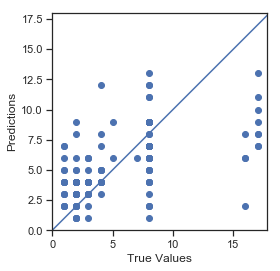
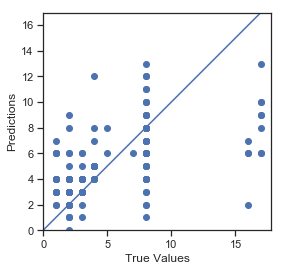
lucky

diff --git a/absenteeism/index.html b/absenteeism/index.html
@@ -36,9 +36,22 @@
           <a href="#AboutOurData" class="list-group-item list-group-item-action bg-white">About Data</a>
           <a href="profiling.html" class="list-group-item list-group-item-action bg-white">Quick Profile Report</a>
           <a href="#process" class="list-group-item list-group-item-action bg-white">ML Process</a>
-          <a href="#predictions" class="list-group-item list-group-item-action bg-white">Features</a>
+          <a href="#models" class="list-group-item list-group-item-action bg-white">Models</a>
           <a href="#Conclusion" class="list-group-item list-group-item-action bg-white">Conclusion</a>
-          <a href="" class="list-group-item list-group-item-action bg-white"> </a>
+          <!-- <a href="" class="list-group-item list-group-item-action bg-white"> </a> -->
+          <br><br><br><br><br><br><br><br><br><br><br>
+
+          <span class=list-group-item list-group-item-action bg-white>
+          <p>Machine Learning Analysis by Adriana Rubalcaba</p>
+          <p>Contact information: <a href="mailto:arubalcaba001@gmail.com">
+          arubalcaba001@gmail.com</a>.</p>
+          </span>
+
+           <span class=list-group-item list-group-item-action bg-white>
+          <p>Front End by Laura Sun</p>
+          <p>Contact information: <a href="mailto:sun.laura@outlook.com">
+          sun.laura@outlook.com</a>.</p> </span>
+
 
         </div>
       </div>
@@ -50,7 +63,7 @@
         <div class="row ml-auto mr-auto ok">
           <div class="colflex-column ml-auto mr-auto">
 
-            <h1 class="mt-3">Absenteeism at Work</h1>
+            <h1 class="mt-3 header">Absenteeism at Work</h1>
             <hr>
 
             <div id="Introduction" class="section scrollspy">
@@ -181,13 +194,27 @@
           <h4> Examining Features </h4>
           <h6> Using Random Forest to target most important features </h6>
           <p>
-          <pre>from sklearn.ensemble import RandomForestRegressor
+          <pre>
+              from sklearn.ensemble import RandomForestRegressor
               model3= RandomForestRegressor(n_estimators=100)</pre></p>
           <img class="img-fluid" src="../absenteeism/img/top4feats.png">
           <img class="img-fluid" src="../absenteeism/img/allfeats.png">
           <br><br>
+          <h6> Using Decision Tree to target most important features </h6>
+          <p>
+          <pre>
+            from sklearn.tree import DecisionTreeRegressor
+            model2= DecisionTreeRegressor(criterion="mse", max_depth=5,
+                                random_state=0).fit(X, y)
+
+            </pre></p>
+          <img class="img-fluid" src="../absenteeism/img/dtfeat.png">
+
+          <br><br>
 
 
+
+          <div id="models" class="section scrollspy">
           <h4> Linear Regression </h4>
           <p> <pre> <code class = "language-python">
             from sklearn.linear_model import LinearRegression
@@ -268,7 +295,7 @@
             <h2> Conclusion </h2><br>
             <div class= "row">
             <div class = "col-sm">
-              <h4> Summary Statistics </h4>
+            <h4> Summary Statistics </h4>
             <h6>Lets get to know the employees</h6><br>
             1. 85% have high school level education. The remaining 15% have graduate, postgraduate and/or doctorate education. <br>
             2. 68% of employees have 1, 2, 3 or 4 kids.<br>
@@ -318,6 +345,7 @@
             <br>
             <br>
             <br>
+            <br><br>
 
 
           </div>
@@ -326,8 +354,19 @@
 
           <!-- end of third column -->
         </div>
+<!--
+        <footer>
+          <div class ="row">
+        <div class = "col-sm">
+        <p>Machine Learning Analysis by Adriana Rubalcaba</p>
+        <p>Contact information: <a href="mailto:arubalcaba001@gmail.com">
+        arubalcaba001@gmail.com</a>.</p></div>
 
-
+        <div class = "col-sm">
+        <p>Front End by Laura Sun</p>
+        <p>Contact information: <a href="mailto:sun.laura@outlook.com">
+        sun.laura@outlook.com</a>.</p></div></div>
+      </footer> -->
   <!-- end of container -->
     </div>
 

diff --git a/absenteeism/css/style.css b/absenteeism/css/style.css
@@ -15,6 +15,17 @@ pre {
     background: hsl(30,80%,90%);
 }
 
+/* .header {
+  padding: 10px 16px;
+  background: #555;
+  color: #f1f1f1;
+  position: fixed;
+} */
+
+/* footer {
+  background: hsl(30,80%,90%);
+} */
+
 $font-stack: Helvetica, sans-serif;
 $primary-color: #333;
 
